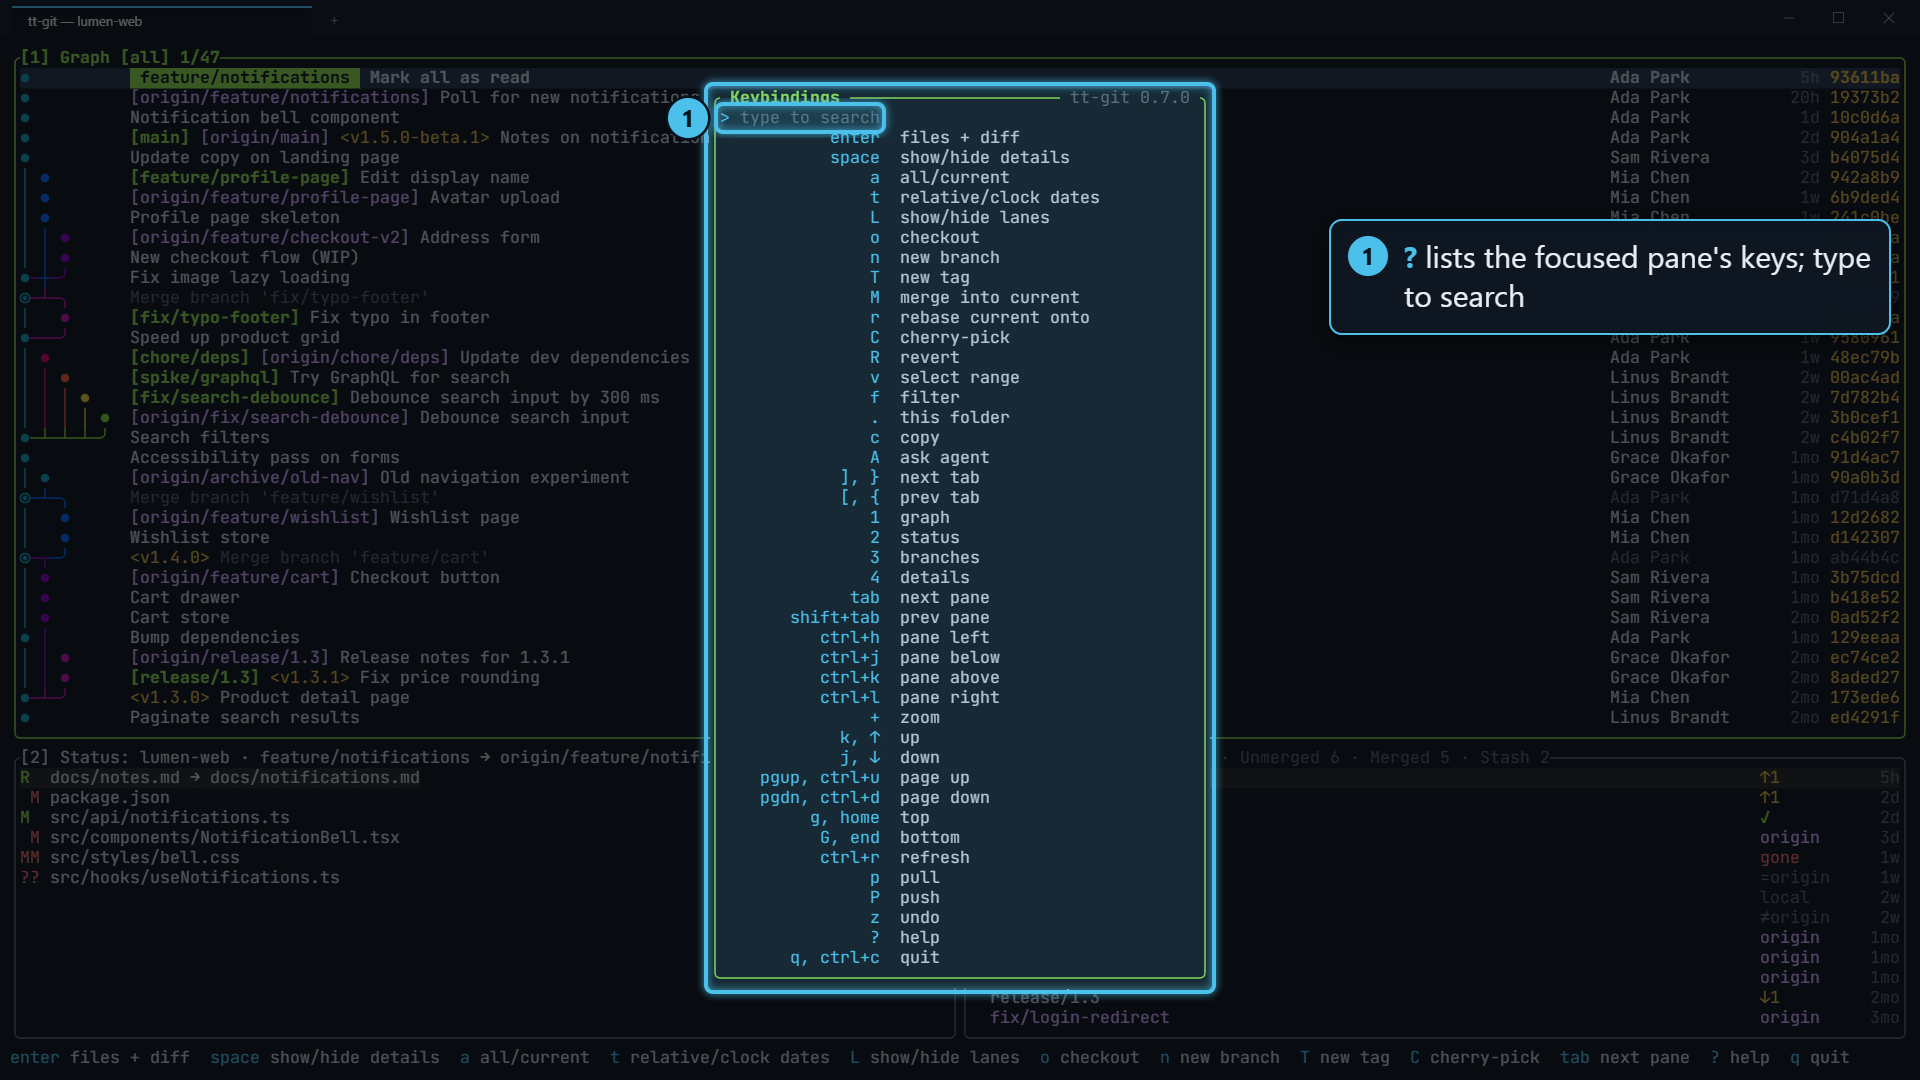
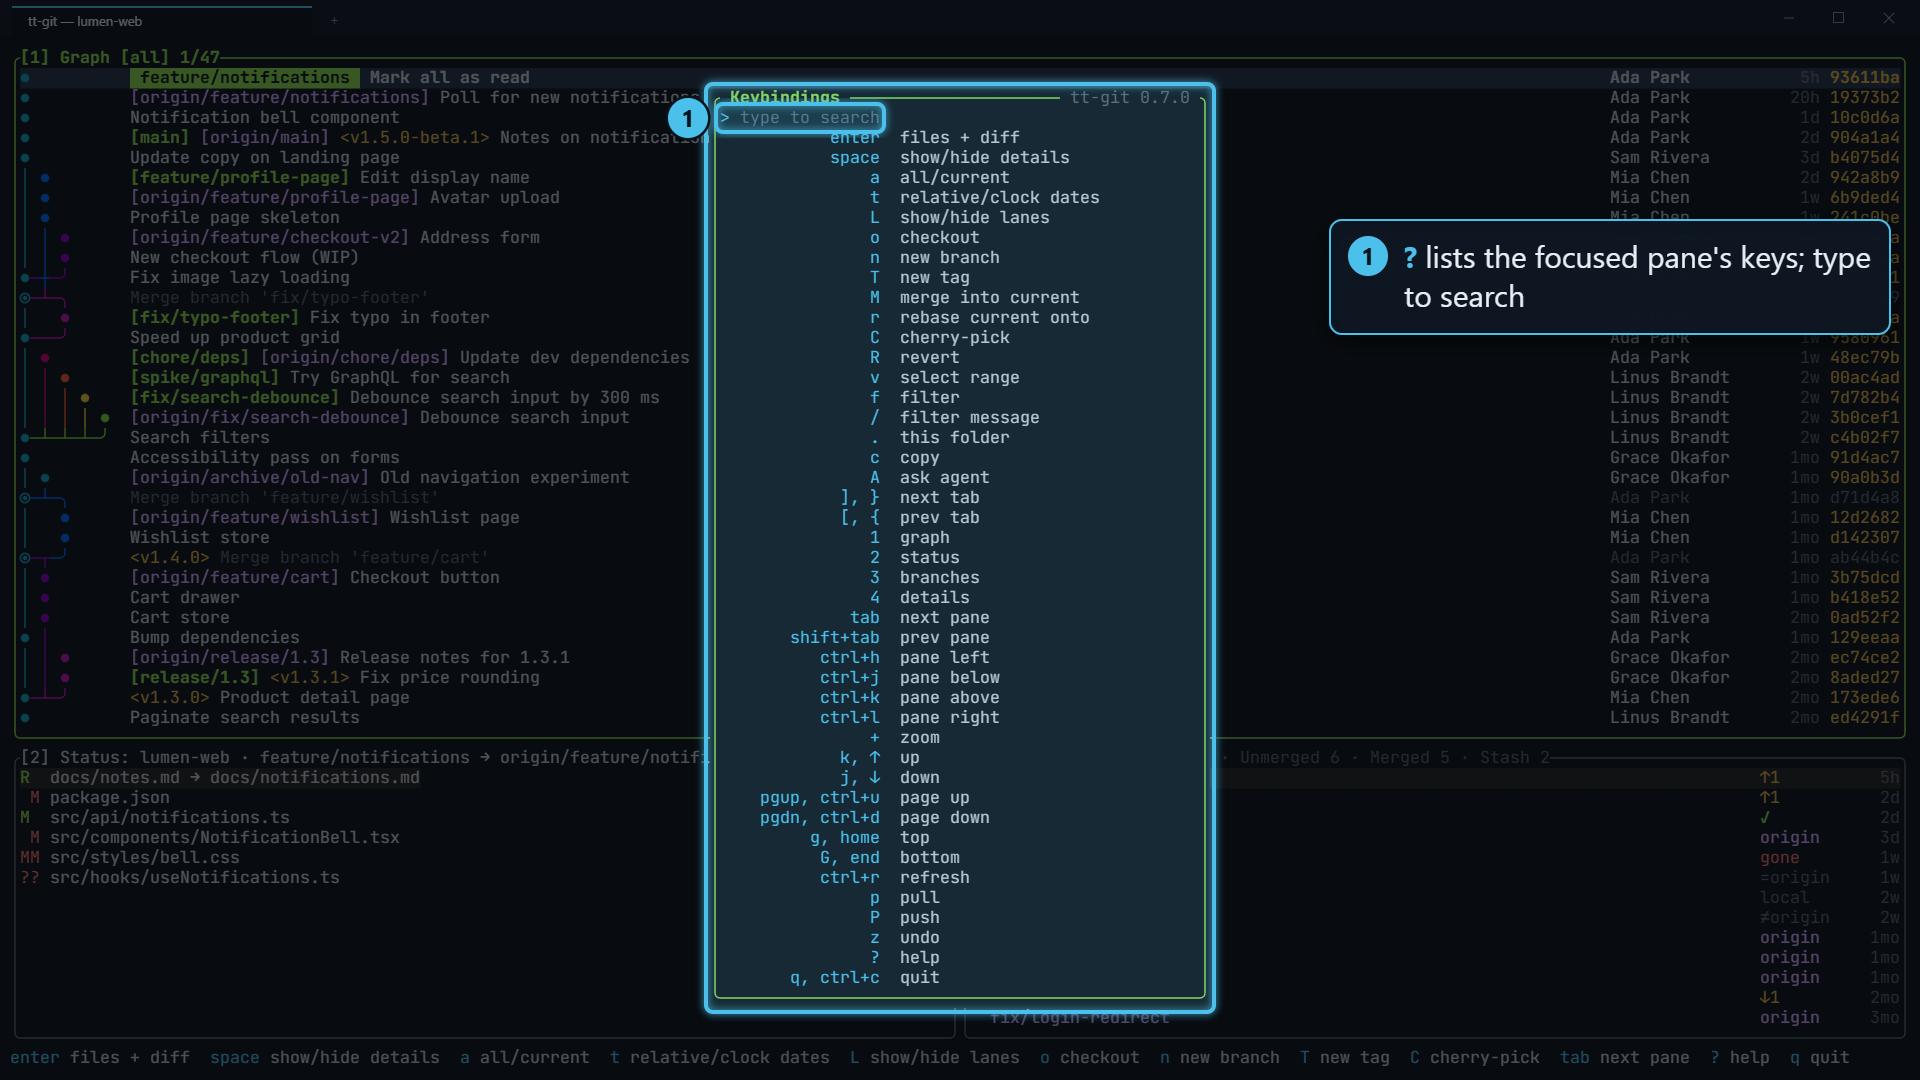
docs(graph): Describe filtering commits by message with /
Add a "Filtering by message" section with a screenshot of the prompt,
the / key and the filter_message command to the key tables, the
message_presets setting, and how the message filter is matched in
how-it-works. Recapture the help popup, which now lists the key.

Changed region(s): [[0.3438, 0.3667, 0.6562, 0.9472]]

diff --git a/crates/tt-git-testkit/examples/docshots.rs b/crates/tt-git-testkit/examples/docshots.rs
@@ -53,6 +53,7 @@ fn main() {
         ("graph-files", &["j", "enter"]),
         ("graph-filter", &["f"]),
         ("graph-filter-folder", &["f", "tab", "text:src/pages/", "enter"]),
+        ("graph-filter-message", &["/", "tab", "tab"]),
         ("graph-zoom-details", &["+", "space"]),
         ("graph-new-branch", &["j", "n", "text:fix/bell-a11y"]),
         ("graph-new-worktree", &["j", "n", "tab", "text:fix/bell-a11y"]),

diff --git a/docs/configuration.md b/docs/configuration.md
@@ -24,6 +24,7 @@ current_includes_upstream = true  # current-branch mode also shows HEAD's upstre
 dates = "relative"              # graph and blame dates: "relative" (3h, 2d) or "clock" (2026-10-17 01:30 PM, local time)
 lanes = true                    # draw the lanes at startup; L in the graph toggles them
 filter_to_cwd = false           # started in a subfolder, show only its commits and Status files (. toggles; --filter-to-cwd / --no-filter-to-cwd override)
+message_presets = ["^feat", "^fix", "^docs", "^test", "^refactor", "^perf", "^chore", "^ci"]  # regexes tab steps through in the / message filter
 
 [branches]
 unmerged_exclude = ["archive"]  # hide unmerged branches whose name contains any of these
@@ -236,6 +237,7 @@ Write keys as `q`, `Q`, `shift+q`, `ctrl+c`, `alt+enter`, `shift+tab`,
 | `refresh`, `push`, `pull` | `ctrl+r`, `P`, `p` | global |
 | `undo` | `z` | global |
 | `toggle_scope`, `toggle_dates`, `toggle_lanes`, `checkout`, `filter`, `new_branch`, `new_tag`, `merge`, `rebase`, `cherry_pick`, `revert`, `select_range`, `agent` | `a`, `t`, `L`, `o`, `f`, `n`, `T`, `M`, `r`, `C`, `R`, `v`, `A` | graph |
+| `filter_message` | `/` | graph |
 | `filter_folder` | `.` | graph, status |
 | `checkout`, `new_branch`, `new_tag`, `delete_branch`, `rename_branch`, `fetch`, `fast_forward`, `filter`, `merge`, `rebase` | `enter`/`space`, `n`, `T`, `d`, `R`, `f`, `F`, `/`, `M`, `r` | branches |
 | `push_tag` | `P` (on the Tags tab; pushes the branch on the others) | branches |

diff --git a/README.md b/README.md
@@ -112,6 +112,7 @@ command palette, which lists built-in commands and plugin actions.
 | | `t` | dates as age (`3h`) ↔ local date and time (`2026-10-17 01:30 PM`) |
 | | `L` | hide / show the lanes, so each row starts with its badges and subject |
 | | `f` | filter: only one author's commits, or the commits that changed a file or folder (`tab` in the panel switches between the two; both can be set) |
+| | `/` | filter by a regex on the commit subject, such as `^feat` (`tab` in the prompt fills in the next preset) |
 | | `.` | only the commits that changed the folder tt-git was started in (Status narrows too); again for everything |
 | | `o` | check out the selected commit: the local branch on it if there is one, else the commit with HEAD detached (with uncommitted changes, asks to stash them first) |
 | | `n` | new branch at the selected commit (`tab` in the dialog: create it in a worktree) |
